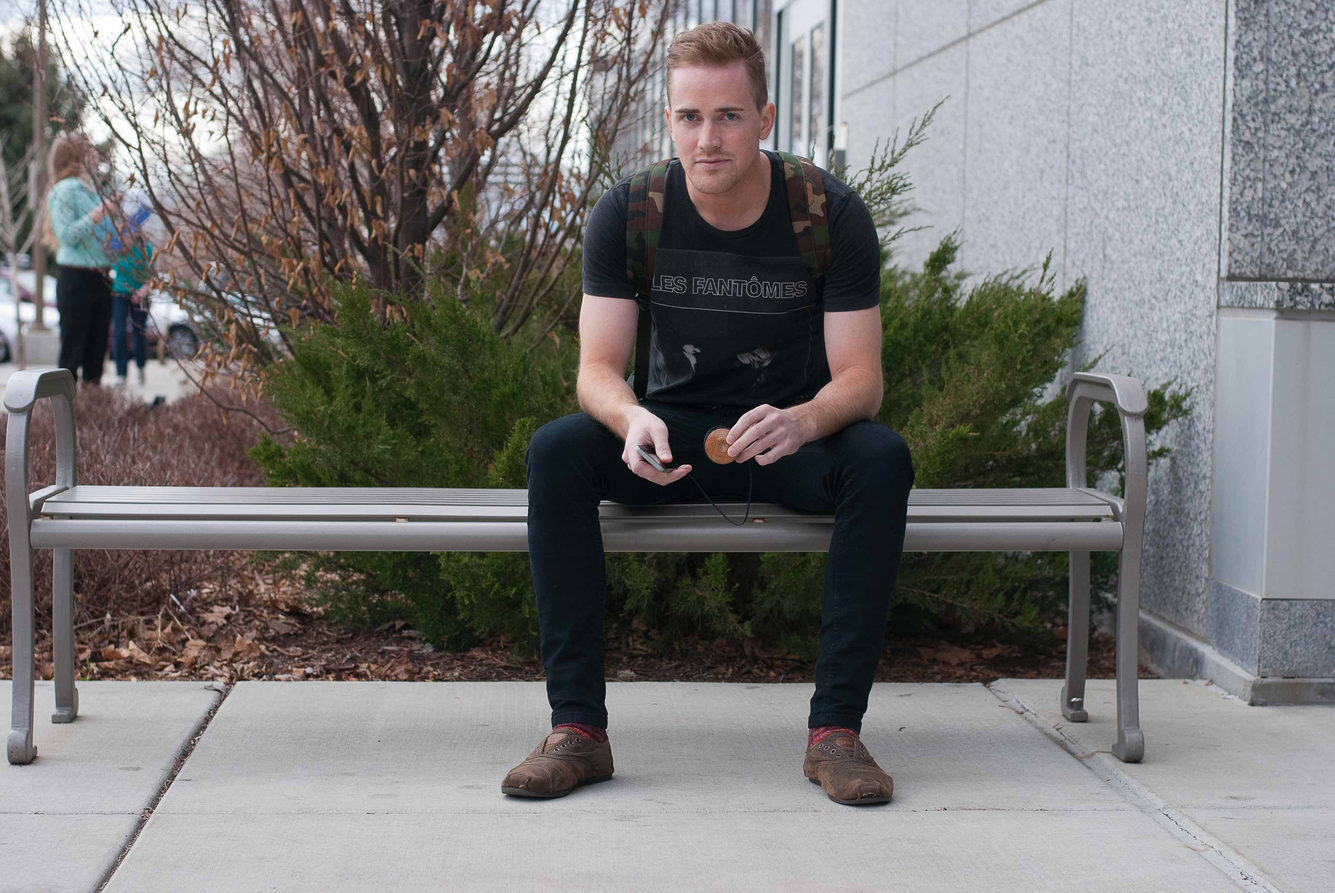
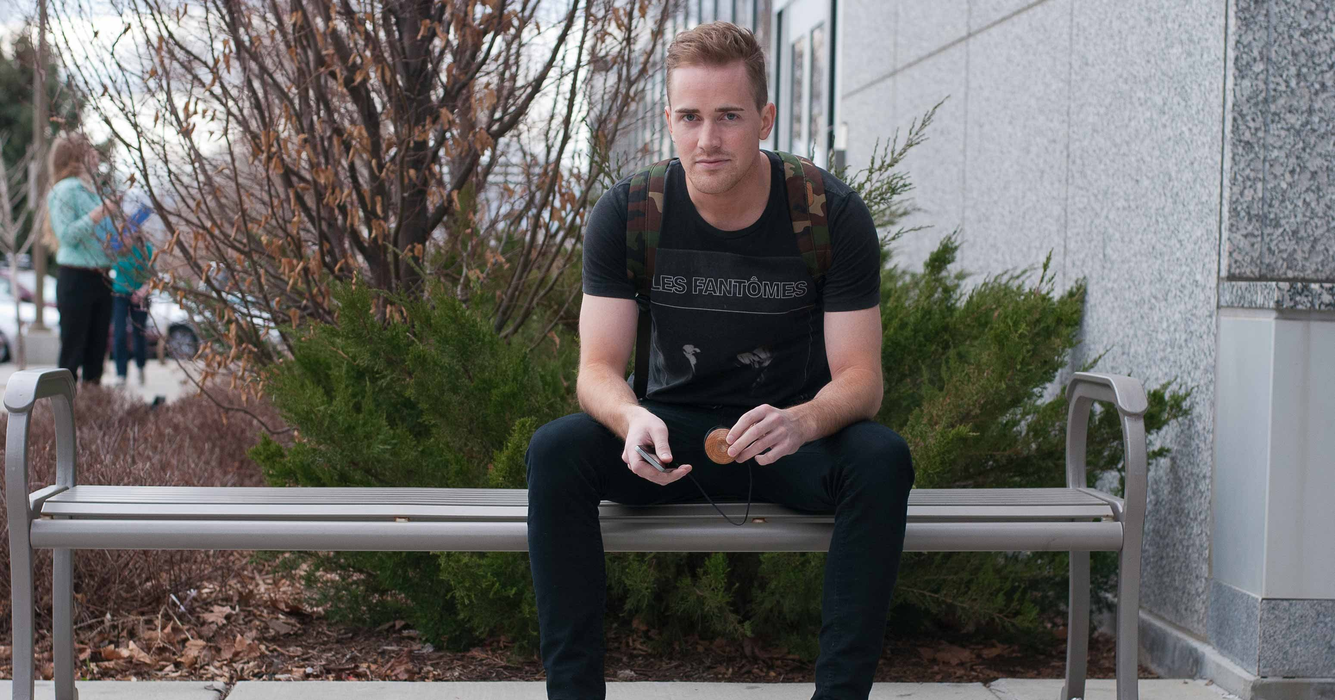
Modified images.

diff --git a/src/app.js b/src/app.js
@@ -1,4 +1,4 @@
-$(window).on('resize', function() {
+/*$(window).on('resize', function() {
 	var container = $('#topDetail');
 	var height = $(window).height();
 	var imgHeight = $("#heroSection").height();
@@ -10,4 +10,4 @@ $(window).on('resize', function() {
 		container.css({marginTop: (imgHeight-80)});
 	}
 
-}).trigger('resize');
+}).trigger('resize');*/

diff --git a/css/index.css b/css/index.css
@@ -106,8 +106,8 @@ nav.navbar {
 }
 
 .heroImage {
-	position:fixed;
-	top:0px;
+	/*position:fixed;
+	top:0px;*/
 	width:100%;
 }
 .heroImage > img {
@@ -143,7 +143,6 @@ nav.navbar {
 .siteDetail {
 	position: relative;
 	background-color: #FFF;
-	margin-top: 500px;
 	z-index: 200;
 	text-align: center;
 	padding-top:40px;
